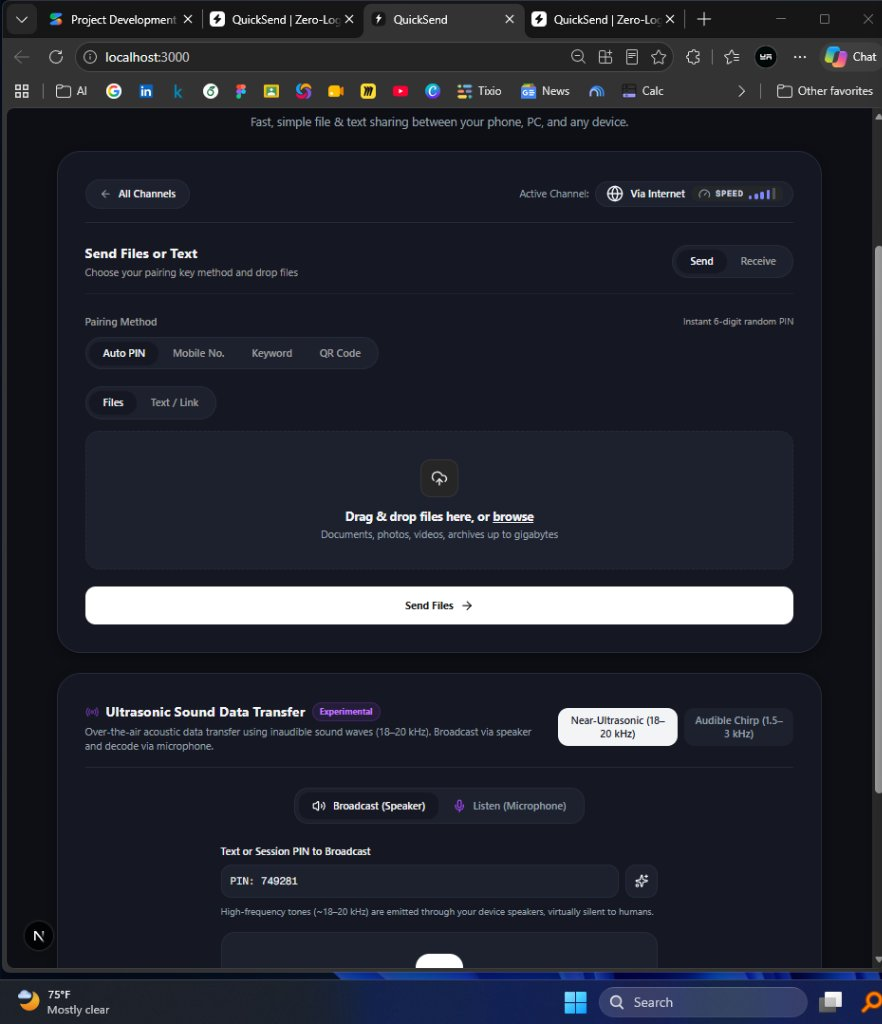
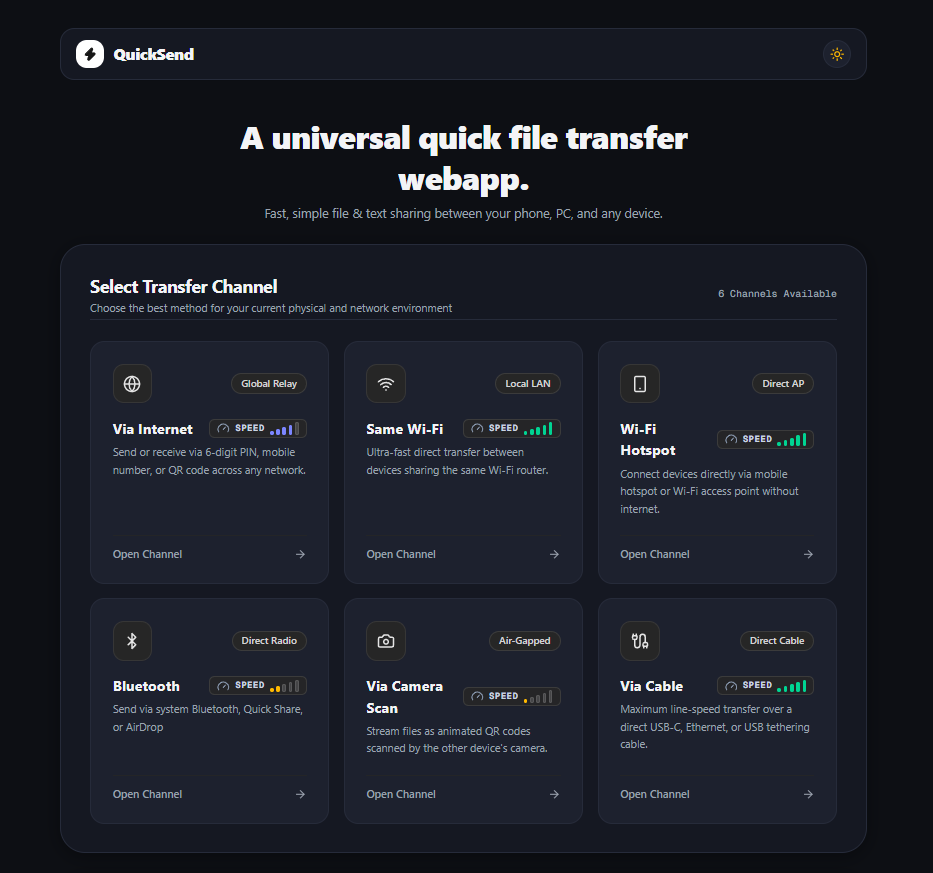
clean readme hero showcase

diff --git a/README.md b/README.md
@@ -8,13 +8,8 @@
     <a href="https://www.typescriptlang.org"><img src="https://img.shields.io/badge/TypeScript-5.0-3178C6?style=flat-square&logo=typescript" alt="TypeScript" /></a>
     <a href="https://tailwindcss.com"><img src="https://img.shields.io/badge/Tailwind_CSS-4.0-38B2AC?style=flat-square&logo=tailwind-css" alt="Tailwind CSS" /></a>
     <a href="https://webrtc.org"><img src="https://img.shields.io/badge/WebRTC-DTLS%2FSRTP%20Encrypted-F36523?style=flat-square&logo=webrtc" alt="WebRTC Encrypted" /></a>
-    <img src="https://img.shields.io/badge/Tests-238%20Passed-brightgreen?style=flat-square" alt="238 Tests Passed" />
     <img src="https://img.shields.io/badge/license-MIT-green?style=flat-square" alt="License MIT" />
     <img src="https://img.shields.io/badge/Platforms-macOS%20%7C%20Windows%20%7C%20Linux%20%7C%20iOS%20%7C%20Android-4B5563?style=flat-square" alt="Cross-Platform" />
-  </p>
-
-  <p>
-    <b>English</b> • <a href="#-about-quicksend">বাংলা</a> • <a href="#-key-features">中文</a> • <a href="#-6-versatile-transfer-channels">Español</a> • <a href="#-tech-stack">Français</a> • <a href="#-local-development-setup">Português</a> • <a href="#-testing--verification">日本語</a> • <a href="#-license--credits">Deutsch</a>
   </p>
 
   <h3>The Zero-Login, Ephemeral Peer-to-Peer Transfer Engine for Web &amp; Mobile.</h3>
@@ -22,7 +17,7 @@
   <p>
     Transfer files of any size, directories, code snippets, or clipboard text between devices in seconds.<br />
     Direct browser-to-browser P2P with WebRTC, local subnet radar, offline hotspot, native Bluetooth/Quick Share, and air-gapped optical QR streams in one app.<br />
-    <strong>No accounts. No native apps. Zero cloud storage or tracking.</strong>
+    <strong>Zero server uploads — files stay on your device until direct P2P transfer.</strong>
   </p>
 
   <p>
@@ -34,7 +29,7 @@
   <br />
 
   <a href="https://quicksend.vercel.app">
-    <img src="public/preview.jpg" alt="QuickSend Web App Interface Preview" width="900" style="border-radius: 12px; box-shadow: 0 12px 40px rgba(0,0,0,0.35);" />
+    <img src="public/preview.png" alt="QuickSend Web App Interface Preview" width="900" style="border-radius: 12px; box-shadow: 0 12px 40px rgba(0,0,0,0.35);" />
   </a>
 </div>
 
@@ -54,7 +49,7 @@ In university computer labs, research facilities, offices, and shared workstatio
 
 ## 📡 6 Versatile Transfer Channels
 
-QuickSend automatically detects your connectivity and adapts to your environment, providing 6 specialized transfer channels plus an experimental audio stream:
+QuickSend automatically detects your connectivity and adapts to your environment, providing 6 specialized transfer channels:
 
 | Channel | Connectivity | Handshake Method | Ideal Use Case |
 | :--- | :--- | :--- | :--- |
@@ -65,19 +60,17 @@ QuickSend automatically detects your connectivity and adapts to your environment
 | **📷 Via Camera Scan** | 100% Air-Gapped | Animated Optical QR Stream | Completely isolated environments with zero radio emissions. Stream data via Base45 animated QRs with XOR parity recovery. |
 | **🔌 Via Cable** | Direct Cable Link | USB-C / Ethernet / Tethering | Maximum line-speed transfers (1–10 Gbps) over wired connections with host candidate priority, plus WebUSB and Web Serial hardware support. |
 
-> 🔊 **Acoustic Audio Transfer (Experimental Bonus):** QuickSend also features an experimental ultrasonic sound modem using Frequency Shift Keying (FSK) across 18,000–19,800 Hz with real-time FFT audio spectrum visualization.
-
 ---
 
 ## ✨ Key Features
 
+- 🔒 **Zero Server Uploads:** Files never pass through or touch an intermediary cloud server. Data stays strictly on your local device until direct P2P transfer begins.
 - 🔓 **Zero Accounts & Zero Logins:** No email, phone number, or password required. Start transferring immediately upon opening the page.
-- 🛡 **100% Ephemeral & End-to-End Encrypted:** Direct peer-to-peer transmission secured with `WebRTC DTLS/SRTP`. Files never pass through or touch an intermediary database.
+- 🛡 **100% Ephemeral & End-to-End Encrypted:** Direct peer-to-peer transmission secured with `WebRTC DTLS/SRTP`.
 - 📦 **Multi-File Batch Queue & Disk Streaming:** Beam entire folders or batches of files sequentially over an open channel. Large payloads (> 100MB) stream directly to disk using the File System Access API without browser tab crashes.
 - ⏱ **Smart Transfer Time Estimation:** Dynamic, channel-aware estimate badges calculate expected transfer durations before sending based on payload size and channel throughput.
 - 🩺 **Real-Time Connection Diagnostics:** Expandable diagnostic drawer displaying ICE connection states, candidate pair types (host, srflx, relay), signaling status, and one-click copyable debug reports.
 - 📱 **Offline PWA & Service Worker:** Installable Progressive Web App (PWA) with client-side asset caching that runs reliably even without an active internet connection.
-- 🔍 **SHA-256 Bit-Perfect Verification:** Verifies file integrity on completion with a visual confirmation badge.
 
 ---
 
@@ -119,7 +112,6 @@ QuickSend prioritizes direct device-to-device communication without storing any 
 | **Optical Engine** | `html5-qrcode`, `jsQR`, `qrcode.react` | High-contrast animated QR code generator, multi-layout scanner, and Deflate + Base45 codec. |
 | **Forward Error Correction** | XOR Parity Stride Engine | Recovers dropped frames in optical streams with word recovery codes. |
 | **Hardware APIs** | File System Access, Web Share, Web Bluetooth | Native disk writing, OS share sheet handoff, and BLE peripheral interfacing. |
-| **Testing & Quality** | [Vitest 5.1](https://vitest.dev/) + Happy DOM | High-speed unit & integration test runner with 238 passing tests across 38 suites. |
 
 ---
 
@@ -149,23 +141,6 @@ QuickSend prioritizes direct device-to-device communication without storing any 
 
 4. **Open in your browser:**
    Navigate to [http://localhost:3000](http://localhost:3000).
-
----
-
-## 🧪 Testing & Verification
-
-QuickSend maintains strict automated test coverage across networking, encryption, optical codecs, and UI components:
-
-```bash
-# Run the complete test suite (238 tests across 38 suites)
-npm test
-
-# Run ESLint validation
-npm run lint
-
-# Build optimized production bundle
-npm run build
-```
 
 ---
 
